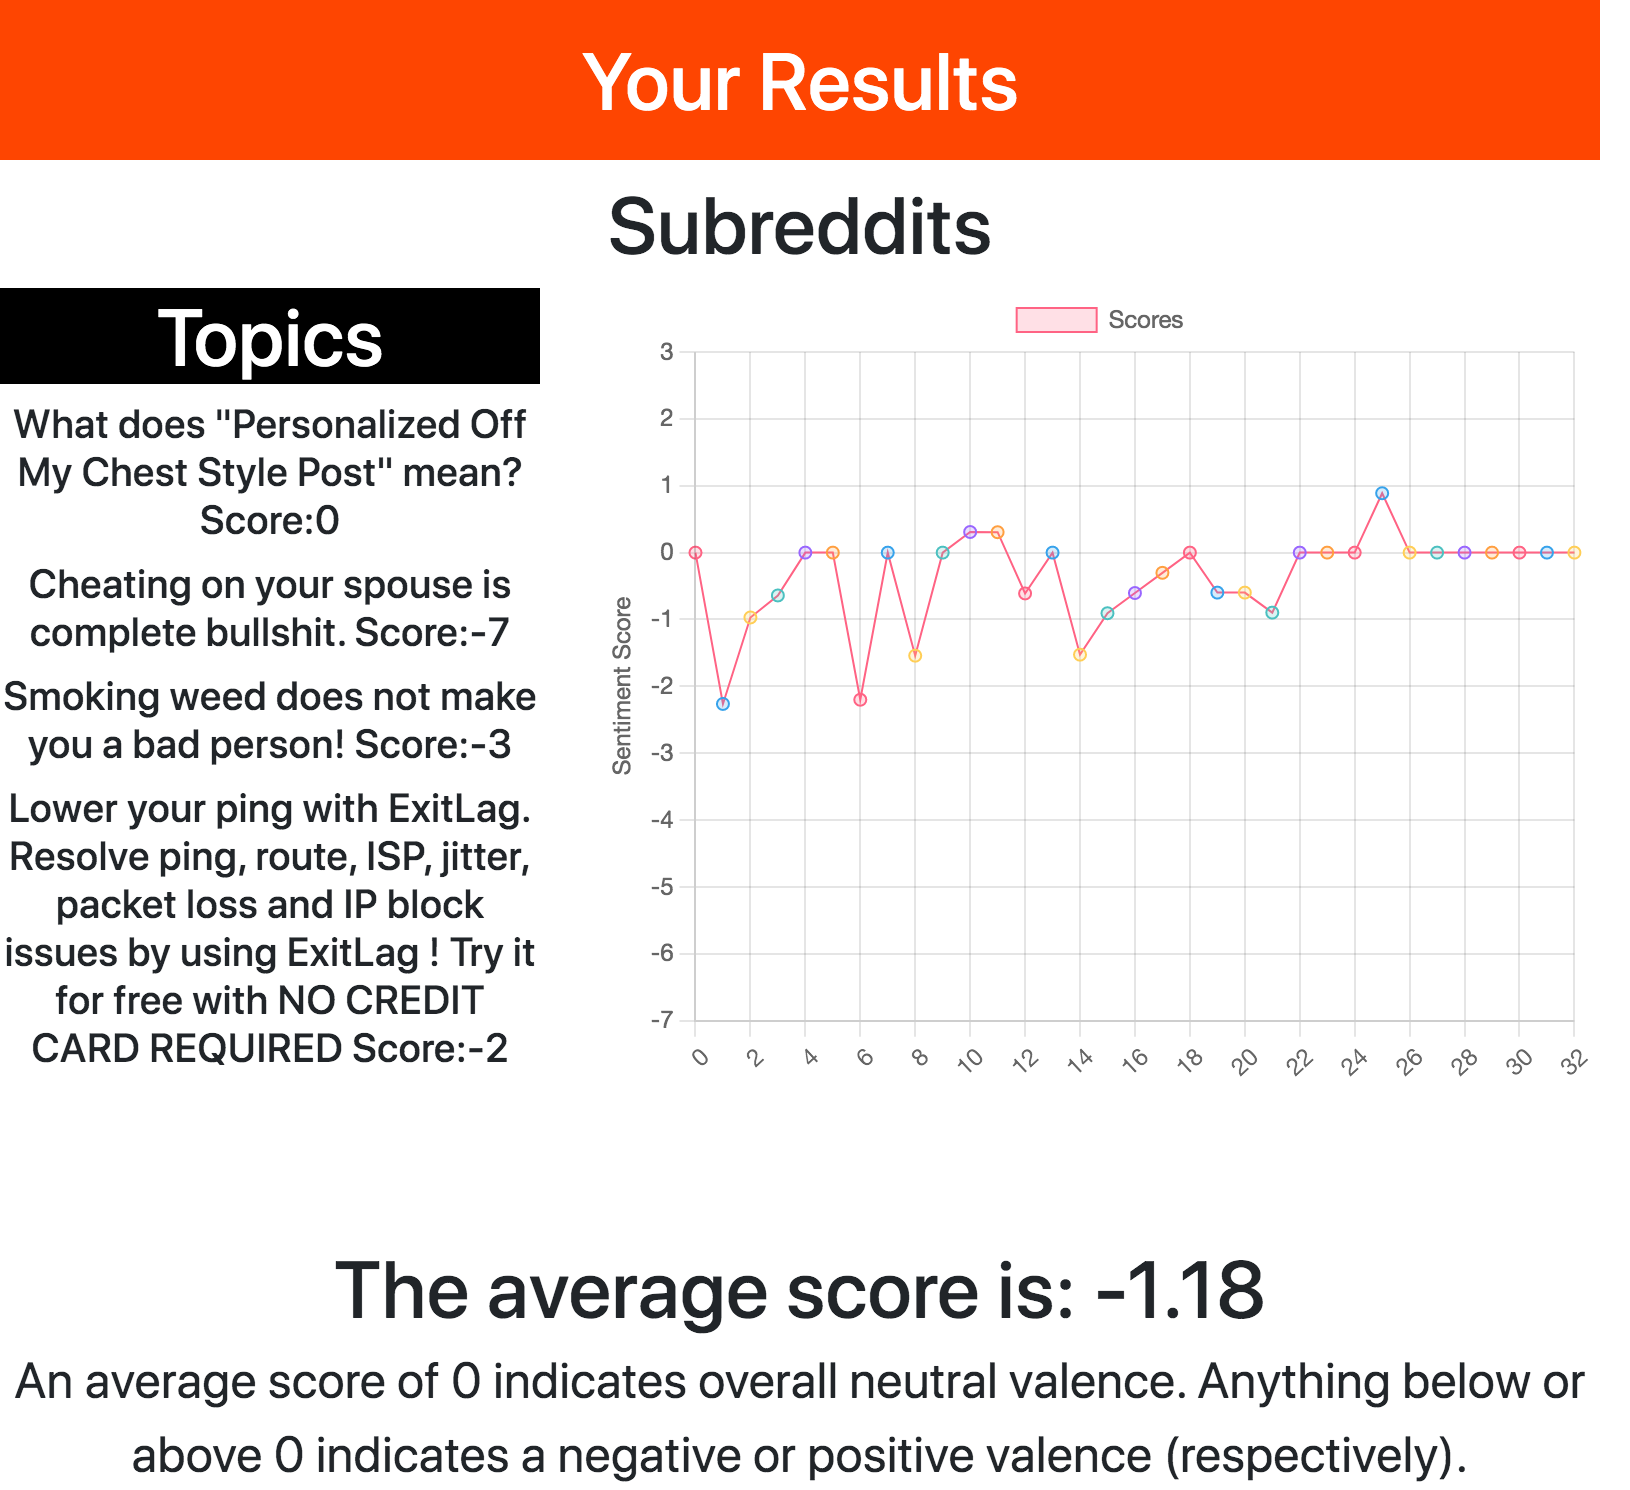
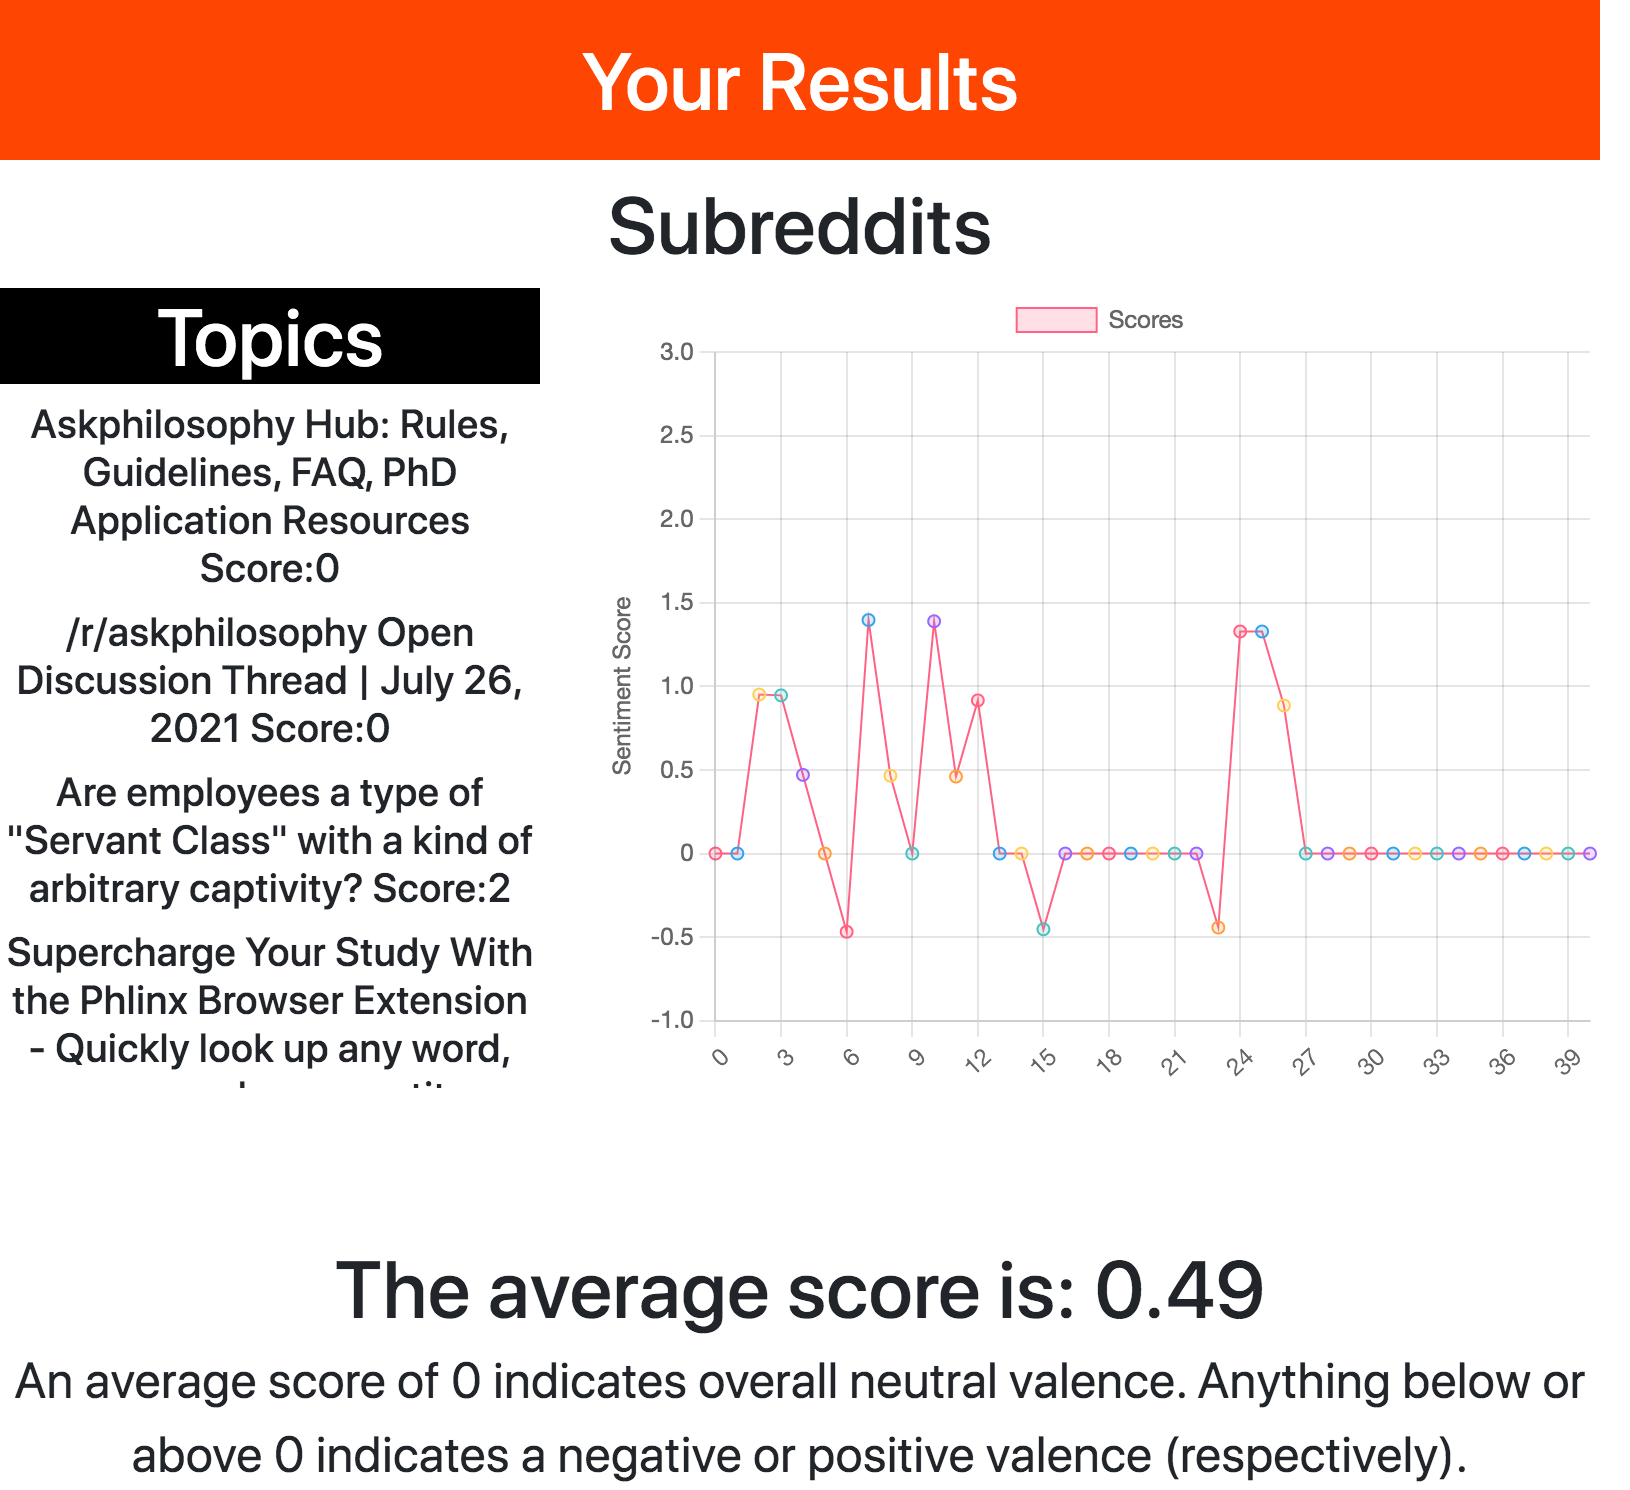
second-commit

diff --git a/index.js b/index.js
@@ -2,12 +2,13 @@ const express = require('express')
 const app = express()
 const http = require('http');
 const exphbs = require('express-handlebars')
+const bodyParser = require('body-parser')
 const path = require('path')
-const flash = require('connect-flash')
 const { scoreThreads } = require('./public/js/puppeteerFunctions/scoreThreads.js')
 const { search } = require('./public/js/puppeteerFunctions/search.js')
 const { screenShot } = require('./public/js/puppeteerFunctions/screenshot')
 const { generateUuid} = require('./public/js/rabbitmq/producer.js')
+
 let connection,channel;
 
 
@@ -37,12 +38,12 @@ app.engine('handlebars',exphbs())
 
 app.use(express.static(path.join(__dirname,'public')))
 
-app.use(express.urlencoded({extended:false}))
+app.use(bodyParser.urlencoded({ extended: true }));
+
+
 
     server.listen(3000, async ()=>{
-
 })
-
 
 
 app.get('/', async (req,res)=>{
@@ -56,11 +57,13 @@ app.post('/submit', function(req,res,next){
 
 },async (req,res)=>{
 
+     let z =  req.body.url.toString().trim()
+     
      res.render('waiting',{layout:false}) 
 
      let queue = await channel.assertQueue('');
 
-     channel.sendToQueue('rpc_queue',Buffer.from('https://www.reddit.com/r/TrueOffMyChest/'),{
+     channel.sendToQueue('rpc_queue',Buffer.from(req.body.url.toString()),{
          correlationId:generateUuid(),
          replyTo:queue.queue
        }) 
@@ -77,16 +80,17 @@ app.post('/submit', function(req,res,next){
 
 
 app.get('/results', function(req,res,next){
+
     req.io=io;
     next()
-
-}, async (req,res)=>{
+    
+},(req,res)=>{
     
     const {subreddits, average} = results
 
     res.render('results',{layout:false,stringifiedSubreddits:JSON.stringify(subreddits),subreddits:subreddits,average})
 
-    await screenShot()
+     screenShot()
   
 })
 
@@ -102,9 +106,4 @@ app.get('/screenshot', function(req,res,next){
 
 
 })
-
-
-
-
-
 

diff --git a/public/js/rabbitmq/consumer.js b/public/js/rabbitmq/consumer.js
@@ -16,7 +16,11 @@ async function connect() {
 
     channel.consume('rpc_queue', async (redditUrl)=>{
 
+        console.log(redditUrl)
+        console.log(redditUrl.content.toString())
         const threads = await search(redditUrl.content.toString())
+
+        console.log(threads)
 
         channel.sendToQueue(redditUrl.properties.replyTo,Buffer.from(JSON.stringify(threads)),{
 

diff --git a/public/js/puppeteerFunctions/search.js b/public/js/puppeteerFunctions/search.js
@@ -8,7 +8,10 @@ puppeteer.use(StealthPlugin())
 async function search(url){
 
     try{
-            const browser = await puppeteer.launch({headless:true});
+
+            console.log('searchurl',url)
+
+            const browser = await puppeteer.launch({headless:false});
         
             const context = browser.defaultBrowserContext()
 
